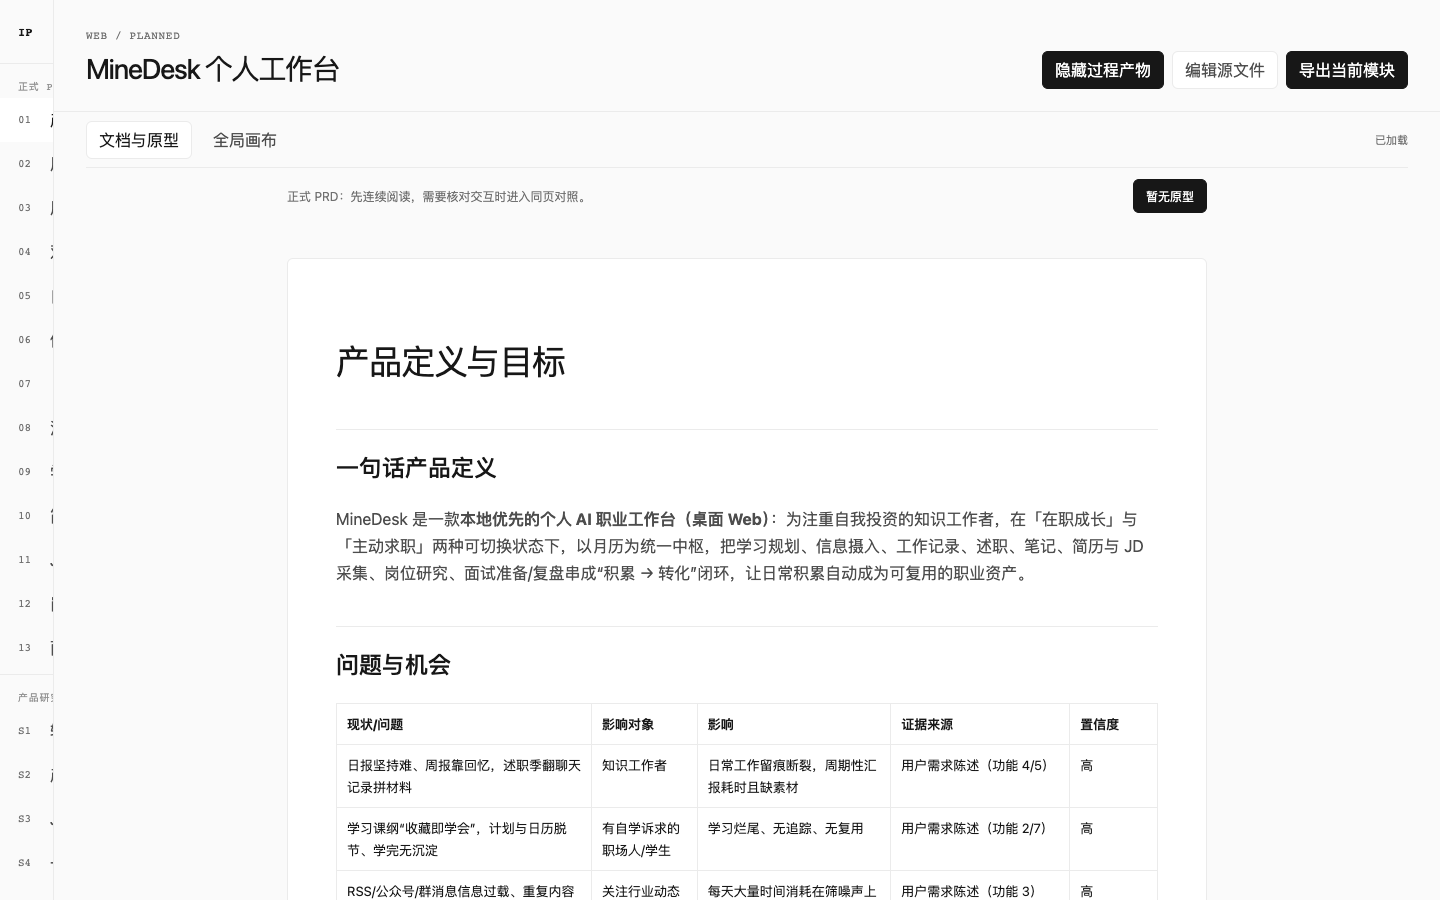
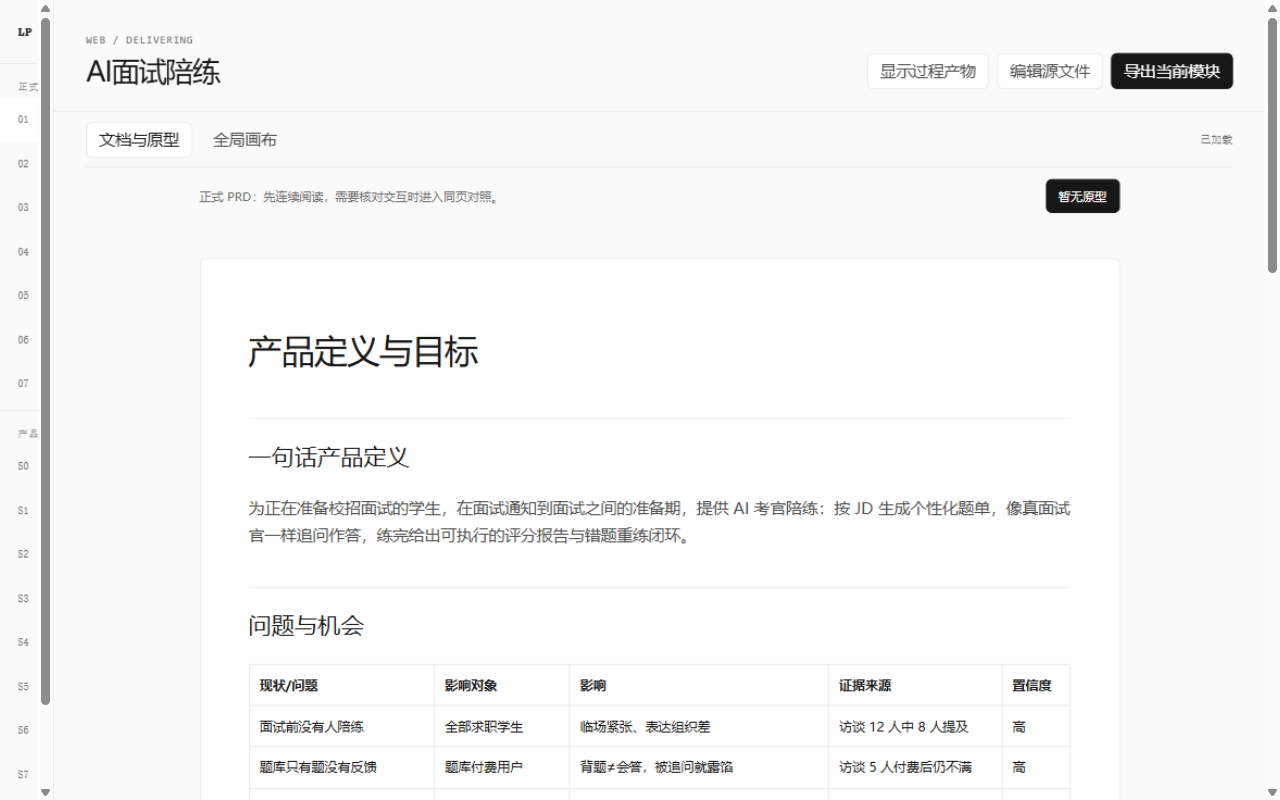
v1.0.0: reposition README around living-prd itself; refresh screenshots with real workspace output
- README now leads with living-prd's gated workflow, runtime and version highlights (metrics & north star module, competitive analysis S0, Feishu/Notion export, AI interview-practice sample workspace)
- All example screenshots replaced with live captures of this repo's own runtime and demo workspace; upstream-era screenshots removed
- License section retains single-line origin note per MIT attribution requirement

diff --git a/README.md b/README.md
@@ -1,18 +1,10 @@
 # Living PRD
 
-把产品想法逐步交付为可编辑、可演示、可导出的**活文档 PRD 工作区** —— 为 AI Coding Agent 设计的 Skill。
-
-## 为什么叫 Living PRD
-
-传统 PRD 是一次性快照：交付即过时。Living PRD 让 PRD 变成"活"的：
+把产品想法交付为**可交互、可迭代、可追溯**的活文档 PRD 工作区 —— 为 AI Coding Agent 设计的 Skill。
 
 - **可交互**：每个功能模块都带可点击的网页原型、气泡标注和页面关系画布，读者直接"用"产品，而不是"读"文档
 - **可迭代**：所有产物是本地 Markdown / HTML / JSON，随需求演进持续修改，不做一次性交付
 - **可追溯**：门禁式作业流（G0–G5）加迭代记录，每一步决策、审核和修改都有据可查
-
-## 来源与致谢
-
-本项目 fork 自 [comeonzhj/interaction-prd](https://github.com/comeonzhj/interaction-prd)（MIT），在其门禁式作业流、可视化底座与数据契约之上独立迭代。上游版本的完整决策记录（v0.1.0–v0.8.0）原样保留在 [ITERATION_LOG.md](ITERATION_LOG.md)，本仓库的迭代条目追加在同一文件。感谢原作者的出色设计。
 
 ## 这是什么
 
@@ -35,7 +27,7 @@ Living PRD 是一个遵循 [Agent Skills](https://agentskills.io/) 规范的 Ski
 |------|------|
 | **G0 产品定型** | 通过多轮对话或代码分析收敛产品定位、用户、场景和 MVP 范围 |
 | **G1 板块计划** | 规划 PRD 模块的目标、边界、依赖和审核标准 |
-| **G2 PRD 基础分析** | 交付产品定义、用户需求分析、用户故事与旅程 |
+| **G2 PRD 基础分析** | 交付产品定义、用户需求分析、用户故事与旅程、数据与北极星指标 |
 | **G3 设计参考基线** | 确认视觉规范，建立组件与状态参考 |
 | **G4 逐模块交付** | 逐个提交 PRD + 原型 + 标注，逐一审核 |
 | **G5 全局收口** | 全量检查模块、页面、状态、标注和导出 |
@@ -48,7 +40,7 @@ Living PRD 是一个遵循 [Agent Skills](https://agentskills.io/) 规范的 Ski
 - **全局画布**：基于页面关系自动分层布局，支持拖拽微调
 - **气泡标注**：优先使用稳定 CSS 选择器锚定，支持坐标回退
 - **分组目录**：正式 PRD / 产品研究与参考 / 作业过程三组分明
-- **导出能力**：PRD Markdown + 原型截图资料包；另可一键复制 / 下载飞书、Notion 友好 Markdown
+- **导出能力**：PRD Markdown + 原型截图资料包；另可一键复制 / 下载**飞书、Notion 友好 Markdown**（Mermaid 折叠为节点说明、标注转为表格）
 
 ### 🔍 两种入口
 
@@ -57,33 +49,30 @@ Living PRD 是一个遵循 [Agent Skills](https://agentskills.io/) 规范的 Ski
 | **想法 / Shaping** | 用户有粗糙需求或产品材料 | 通过对话逐步澄清，多轮问答收敛 |
 | **Demo 代码** | 用户有可访问的产品 Demo 代码 | 从代码还原功能、规则、边界，区分"已实现事实"与"产品意图" |
 
-## 安装
+## 版本亮点
 
-### 使用 npx skills（推荐）
+- **数据与北极星指标**（第 4 个必交基础板块）：指标先于功能确认，验证器强制存在，避免功能交付与价值脱钩；模板覆盖指标树、护栏指标与虚荣指标反例
+- **竞品分析（S0）**：作为定型依据前置，结论强制回写定位与 MVP 范围，不作为独立交付漂移
+- **飞书 / Notion 导出**：本地转换 + 一键复制/下载，不做 API 集成，协作文档直接粘贴可用
+- **完整落地样例**：随仓库流程产出的「AI 面试陪练」工作区——18 个模块、7 页可交互原型、14 条可追溯标注（见下方截图）
+
+## 快速开始
+
+### 安装
 
 ```bash
 npx skills add ZLX0071/living-prd
 ```
 
-安装后，Skill 会被放置到当前项目的 skills 目录（或你使用的 Agent 对应的 skills 目录），并自动被 Agent 识别。
+安装后，Skill 会被放置到当前项目的 skills 目录（或你使用的 Agent 对应的 skills 目录），并自动被 Agent 识别。全局安装追加 `-g`。
 
-如需全局安装（所有项目可用）：
-
-```bash
-npx skills add ZLX0071/living-prd -g
-```
-
-### 手动克隆
+也可以手动克隆：
 
 ```bash
 git clone https://github.com/ZLX0071/living-prd.git
 ```
 
-然后将 `SKILL.md` 和相关文件放到你的 Agent skills 目录中。
-
-## 快速开始
-
-安装 Skill 后，对你的 AI Agent 说：
+### 对 AI Agent 说
 
 **从想法开始：**
 
@@ -93,59 +82,52 @@ git clone https://github.com/ZLX0071/living-prd.git
 
 > "用 living-prd 从这个 Demo 代码还原产品 PRD：[代码目录路径]"
 
-### 工作区初始化
+### 工作区初始化与底座
 
-Agent 会运行初始化脚本创建工作区：
+Agent 会运行初始化脚本创建工作区，然后启动本地底座：
 
 ```bash
-# 从想法入口
 python3 <skill-root>/scripts/init_living_prd.py --name "产品名" --type "Web"
 
-# 从 Demo 代码入口
-python3 <skill-root>/scripts/init_living_prd.py --name "产品名" --type "Web" \
-  --source-mode demo --source-path "./demo-code"
-```
-
-### 启动底座
-
-```bash
 cd <workspace>
 npm install
-npm run dev     # 启动本地底座
+npm run dev      # 启动本地底座
 npm run validate # 验证 manifest、文件引用和标注坐标
 ```
 
 ## 示例截图
 
-### 文档阅读视图
+以下截图来自「AI 面试陪练」工作区（用本 Skill 完整走完 G0–G5 的真实产出）。
+
+### 底座 · 文档阅读视图
 
 默认打开第一个正式 PRD 模块，支持 Markdown 渲染和 Mermaid 图表。
 
 ![文档阅读视图](docs/images/01-document-view.png)
 
-### 原型对照模式
+### 底座 · 原型对照模式
 
-点击"对照原型"进入约 2:1 布局，左侧原型、右侧审阅栏，可切换文档与页面标注。
+约 2:1 布局，左侧原型、右侧审阅栏，可切换文档与页面标注。
 
 ![原型对照模式](docs/images/05-prototype-compare.png)
 
-### 气泡标注
+### 底座 · 全局页面关系画布
 
-在原型上添加标注，优先使用稳定 CSS 选择器锚定，点击气泡自动定位到标注列表。
+基于页面关系自动分层布局，展示页面跳转与触发条件，支持拖拽微调。
 
-![气泡标注](docs/images/09-prototype-with-annotations.png)
+![全局画布](docs/images/08-global-canvas.png)
 
-### 全局画布
+### 原型 · 岗位准备
 
-基于页面关系自动分层布局，展示所有页面的跳转关系，支持拖拽微调。
+![岗位准备](docs/images/prototype-prep-home.png)
 
-![全局画布](docs/images/08-global-canvas-full.png)
+### 原型 · 模拟面试（追问机制）
 
-### 状态展示页
+![模拟面试](docs/images/prototype-interview-session.png)
 
-多状态并列展示，便于设计师和开发者理解各种边界情况。
+### 原型 · 练习报告
 
-![状态展示](docs/images/10-states-prototype.png)
+![练习报告](docs/images/prototype-report-detail.png)
 
 ## 工作区结构
 
@@ -167,7 +149,8 @@ npm run validate # 验证 manifest、文件引用和标注坐标
 │   ├── 01-product-definition.md
 │   ├── 02-users-and-needs.md
 │   ├── 03-user-stories-and-journey.md
-│   └── 04-metrics-and-north-star.md
+│   ├── 04-metrics-and-north-star.md
+│   └── ...功能模块
 ├── reference/                 # 设计参考（R1–R2）
 │   ├── DESIGN.md
 │   └── components-and-states.md
@@ -186,8 +169,8 @@ living-prd/
 ├── SKILL.md                  # Skill 指令（Agent 入口）
 ├── README.md                 # 本文件
 ├── AGENTS.md                 # 仓库维护规范
-├── ITERATION_LOG.md          # 版本迭代记录（含上游决策记录）
-├── LICENSE                   # MIT 许可（含上游版权声明）
+├── ITERATION_LOG.md          # 版本迭代记录
+├── LICENSE                   # MIT 许可
 ├── agents/
 │   └── openai.yaml           # OpenAI Agent 配置
 ├── references/               # 参考规范
@@ -198,6 +181,7 @@ living-prd/
 │   └── visual-system.md
 ├── scripts/
 │   └── init_living_prd.py    # 工作区初始化脚本
+├── docs/images/              # 示例截图
 └── assets/
     └── runtime/              # 底座模板
 ```
@@ -215,10 +199,10 @@ living-prd/
 
 ## 版本记录
 
-当前版本：**v0.11.0** — fork 自 [interaction-prd](https://github.com/comeonzhj/interaction-prd) v0.8.0。本仓库已交付：品牌更名与 `living-prd.json` 数据契约（v0.9.0）、数据与北极星指标基础板块 + 竞品分析 S0（v0.10.0）、飞书/Notion Markdown 导出（v0.11.0）。
+当前版本：**v1.0.0** — 首个正式版本：数据与北极星指标基础板块、竞品分析（S0）、飞书/Notion Markdown 导出，以及「AI 面试陪练」完整落地样例。
 
 详见 [ITERATION_LOG.md](ITERATION_LOG.md)。
 
 ## 许可
 
-MIT。本仓库在 [comeonzhj/interaction-prd](https://github.com/comeonzhj/interaction-prd)（MIT）基础上迭代，版权声明见 [LICENSE](LICENSE)。
+MIT。基于开源项目 [interaction-prd](https://github.com/comeonzhj/interaction-prd)（MIT）二次开发而来，版权声明见 [LICENSE](LICENSE)。

diff --git a/ITERATION_LOG.md b/ITERATION_LOG.md
@@ -64,6 +64,33 @@
 
 - 新增必交模块与 shaping 文件只影响新初始化的工作区；既有工作区按需自行补充 `prd/04-metrics-and-north-star.md` 与 `shaping/00-competitive-analysis.md`，否则 `validate` 报缺失。初始化器"不覆盖既有文件"策略不变。
 
+## v1.0.0 — 2026-10-02
+
+### 目标
+
+- 标记首个正式版本：项目以 living-prd 为主体组织对外叙事，突出本仓库的能力增量与真实落地样例。
+
+### 关键决策
+
+- README 重写为产品优先结构：开头直接呈现 living-prd 的门禁流、底座能力与版本亮点；出处说明收拢到"许可"小节保留单行（满足 MIT 保留版权声明的义务），不再出现在正文叙事中。
+- 示例截图全部替换为本仓库真实产出的实拍：底座文档视图 / 对照模式 / 全局画布，以及「AI 面试陪练」工作区的岗位准备、模拟面试、练习报告三页原型；删除上游时代的全部旧截图（其中部分仍显示旧品牌，已失真）。
+- 版本号升至 v1.0.0：三大能力增量（北极星指标板块、竞品分析 S0、飞书/Notion 导出）与完整产品工作区均已验证，具备对外展示完成度。
+- GitHub 仓库描述同步更新为产品描述。
+
+### 涉及范围
+
+- README.md（重写）、docs/images/（6 张新实拍，删除上游旧图）、ITERATION_LOG.md（本条目）、GitHub 仓库描述。
+
+### 验证
+
+- 全部截图来自运行中的底座与原型页实拍；README 图片引用逐一核对存在。
+- `npm run validate` 在样例工作区通过（18 模块 / 7 页面 / 6 关系）。
+- 提交并推送至 GitHub。
+
+### 兼容性
+
+- 无代码与数据契约变更；Skill 指令不变。
+
 ## v0.11.0 — 2026-10-02
 
 ### 目标
